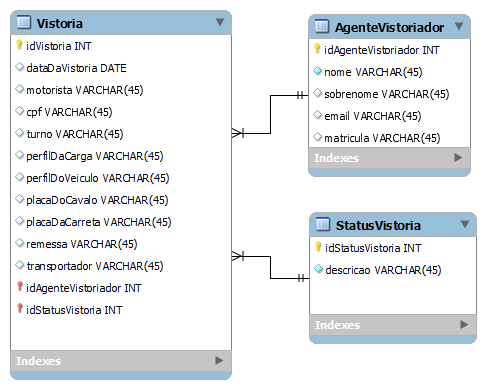
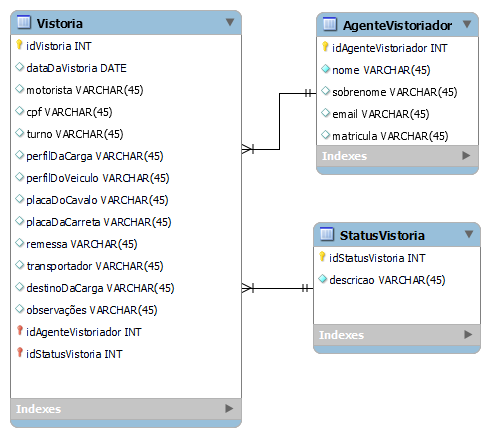
Criação do arquivo readme.md

Changed region(s): [[0.0, 0.0, 0.9877, 0.9871], [0.5556, 0.0, 0.9877, 0.4627]]

diff --git a/vistoria-app/vistoria-app/README.md b/vistoria-app/vistoria-app/README.md
@@ -1,0 +1,50 @@
+</br>
+<div align="center">
+  <img src="assets/tela-inicial-vistoriaApp.png" width="60%" />
+</div>
+</br>
+
+<h2>Descrição do Projeto</h2>
+<p>O projeto consiste no desenvolvimento de um aplicativo para a realização das vistorias técnicas de caminhões antes do carregamento.</p>
+
+
+<h2>Diagrama de Classes</h2>
+</br>
+<div align="center">
+  <img src="assets/diagrama-de-classes-vistoriaApp.png" width="45%" />
+</div>
+
+
+<h2>Tecnologias utilizadas</h2>
+
+* Spring Boot framework
+* Spring MVC
+* Spring Security
+* DB H2
+* Swagger
+
+<h2>Ferramentas utilizadas</h2>
+
+* Visual Studio Code
+* Android Studio
+* Figma
+
+
+<h2>Documentação Swagger</h2>
+<p><a href="http://localhost:8080/swagger-ui/index.html">Link</a> para o Swagger UI.</p>
+
+
+<h2>Requisitos técnicos do projeto:</h2>
+
+A aplicação deverá permitir, ao usuário devidamente logado, realizar o cadastro do veículo que será carregado, bem como todas as sua informações primárias tais como:
+
+1. Tipo de veículo
+2. Placas
+3. Motorista
+4. Transportadora
+
+Ainda deverão constar informações referentes a carga que será transportada, tais como:
+
+1. Tipo de carga
+2. Número da carga, id, protocolo ou remessa
+3. Destino
